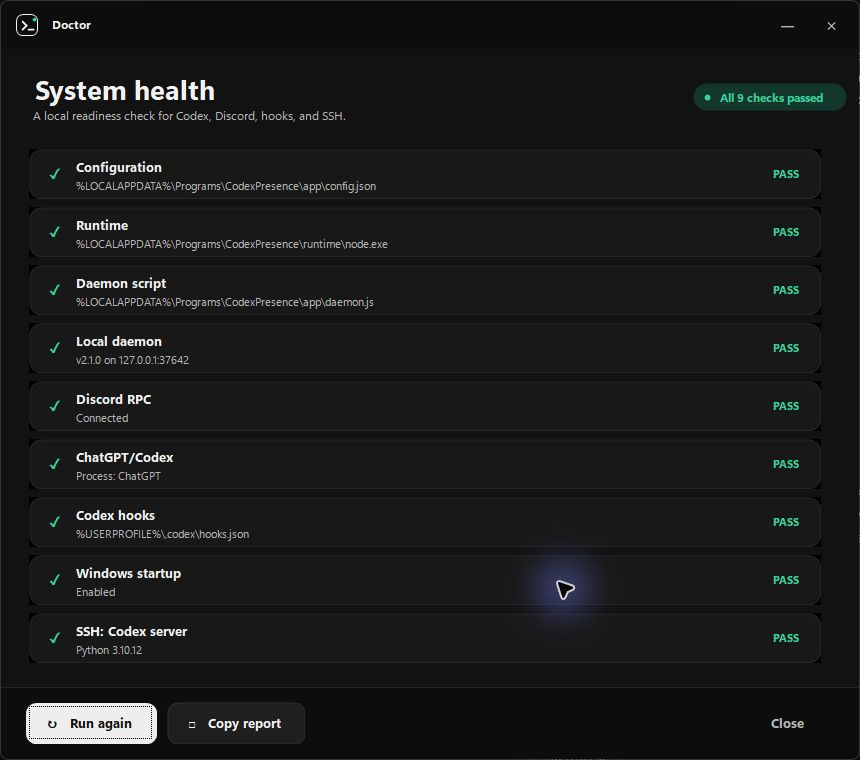
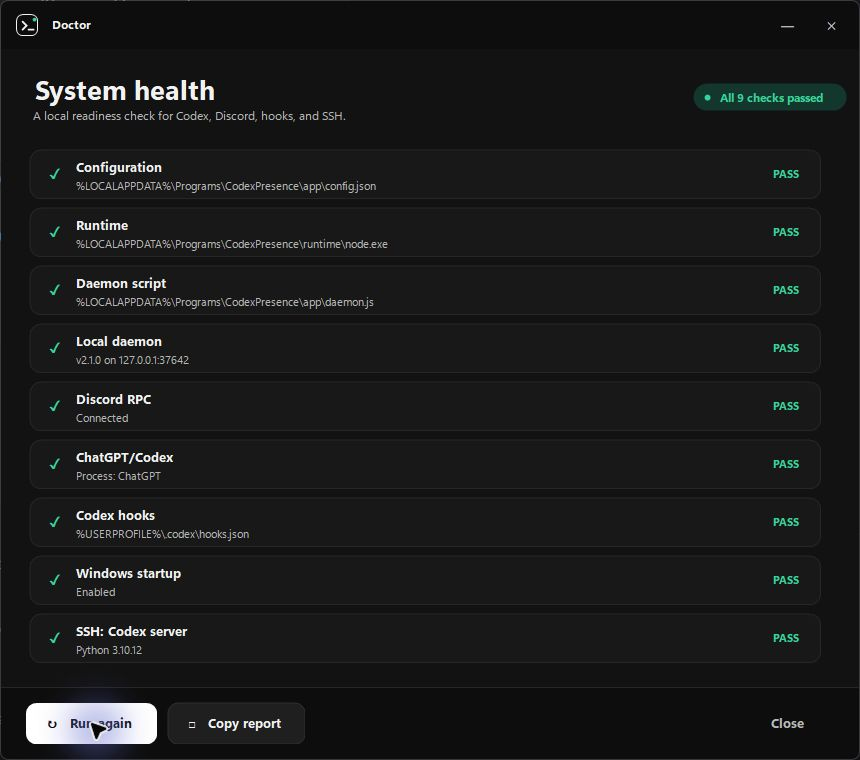
Fix rounded panels and select lifecycle

diff --git a/tray/DashboardForm.cs b/tray/DashboardForm.cs
@@ -3,9 +3,9 @@ namespace CodexPresence;
 public sealed class DashboardForm : ModernForm
 {
     private readonly StatusPill connection = new() { Text = "Connecting" };
-    private readonly Label project = Visuals.Label("Waiting for Codex", 21, false, FontStyle.Bold);
+    private readonly Label project = Visuals.Label("Waiting for Codex", 19, false, FontStyle.Bold);
     private readonly Label file = Visuals.Label("No activity yet", 10, true);
-    private readonly Label elapsed = Visuals.Label("00:00:00", 11, false, FontStyle.Bold);
+    private readonly Label elapsed = Visuals.Label("00:00:00", 10, false, FontStyle.Bold);
     private readonly Label source = Visuals.Label("Local", 9, false, FontStyle.Bold);
     private readonly Label workspace = Visuals.Label("Desktop", 9, false, FontStyle.Bold);
     private readonly ModernButton pause = Visuals.Button("Pause", ButtonKind.Primary, "Ⅱ");
@@ -14,52 +14,70 @@ public sealed class DashboardForm : ModernForm
     public event EventHandler? SettingsRequested;
     public event EventHandler? DiagnosticsRequested;
 
-    public DashboardForm() : base("Codex Presence", new Size(620, 456))
+    public DashboardForm() : base("Codex Presence", new Size(620, 420))
     {
-        MaximumSize = new Size(620, 456);
+        MaximumSize = new Size(620, 420);
 
-        var heading = Visuals.Label("Presence", 18, false, FontStyle.Bold);
-        heading.Location = new Point(28, 23);
-        var subtitle = Visuals.Label("Your current Codex workspace on Discord", 9, true);
-        subtitle.Location = new Point(29, 53);
-        connection.Location = new Point(448, 28);
+        var heading = Visuals.Label("Presence", 17, false, FontStyle.Bold);
+        heading.Location = new Point(28, 21);
+        var subtitle = Visuals.Label("Current Codex activity shared with Discord", 9, true);
+        subtitle.Location = new Point(29, 49);
+        connection.Location = new Point(448, 24);
 
         var activity = new RoundedPanel
         {
-            Location = new Point(28, 88),
-            Size = new Size(562, 166),
-            Radius = 16,
+            Location = new Point(28, 78),
+            Size = new Size(562, 214),
+            Radius = 14,
             BackColor = Visuals.Surface,
+            BorderColor = Visuals.Border,
         };
-        var eyebrow = Visuals.Eyebrow("Current activity");
+
+        var eyebrow = Visuals.Eyebrow("Now editing");
         eyebrow.Location = new Point(20, 18);
-        project.Location = new Point(18, 44);
-        project.MaximumSize = new Size(515, 34);
-        file.Location = new Point(20, 82);
-        file.MaximumSize = new Size(515, 38);
-        var divider = new Panel { Location = new Point(20, 118), Size = new Size(522, 1), BackColor = Visuals.BorderSoft };
-        var clockIcon = Visuals.Label("◷", 11, true);
-        clockIcon.Location = new Point(20, 132);
-        elapsed.Location = new Point(44, 132);
-        activity.Controls.AddRange([eyebrow, project, file, divider, clockIcon, elapsed]);
+        project.Location = new Point(19, 45);
+        project.MaximumSize = new Size(515, 32);
+        file.Location = new Point(20, 79);
+        file.MaximumSize = new Size(515, 34);
 
-        var sourceCard = MetricCard("Signal", source, "Selected task");
-        sourceCard.Location = new Point(28, 270);
-        var workspaceCard = MetricCard("Workspace", workspace, "Local or SSH");
-        workspaceCard.Location = new Point(310, 270);
+        var divider = new Panel { Location = new Point(20, 119), Size = new Size(522, 1), BackColor = Visuals.BorderSoft };
+        var signalCaption = Visuals.Eyebrow("Signal"); signalCaption.Location = new Point(20, 139);
+        source.Location = new Point(20, 163);
+        var workspaceCaption = Visuals.Eyebrow("Workspace"); workspaceCaption.Location = new Point(196, 139);
+        workspace.Location = new Point(196, 163);
+        var timeCaption = Visuals.Eyebrow("Codex session"); timeCaption.Location = new Point(392, 139);
+        elapsed.Location = new Point(392, 162);
 
-        pause.SetBounds(28, 358, 164, 44);
+        activity.Controls.AddRange([
+            eyebrow, project, file, divider,
+            signalCaption, source, workspaceCaption, workspace, timeCaption, elapsed,
+        ]);
+
+        var footer = new Panel
+        {
+            Dock = DockStyle.Bottom,
+            Height = 76,
+            BackColor = Visuals.Canvas,
+        };
+        footer.Paint += (_, e) =>
+        {
+            using var pen = new Pen(Visuals.BorderSoft);
+            e.Graphics.DrawLine(pen, 0, 0, footer.Width, 0);
+        };
+
+        pause.SetBounds(28, 17, 164, 42);
         pause.Click += (_, _) => PauseRequested?.Invoke(this, EventArgs.Empty);
         var settings = Visuals.Button("Settings", ButtonKind.Secondary, "⚙");
-        settings.SetBounds(204, 358, 154, 44);
+        settings.SetBounds(204, 17, 148, 42);
         settings.Click += (_, _) => SettingsRequested?.Invoke(this, EventArgs.Empty);
-        var doctor = Visuals.Button("Doctor", ButtonKind.Ghost, "＋");
-        doctor.SetBounds(370, 358, 132, 44);
+        var doctor = Visuals.Button("Doctor", ButtonKind.Ghost, "+");
+        doctor.SetBounds(362, 17, 124, 42);
         doctor.Click += (_, _) => DiagnosticsRequested?.Invoke(this, EventArgs.Empty);
-        var version = Visuals.Label("v2.1.0", 8, true);
-        version.Location = new Point(542, 374);
+        var version = Visuals.Label("2.1.0", 8, true);
+        version.Location = new Point(548, 31);
+        footer.Controls.AddRange([pause, settings, doctor, version]);
 
-        ContentHost.Controls.AddRange([heading, subtitle, connection, activity, sourceCard, workspaceCard, pause, settings, doctor, version]);
+        ContentHost.Controls.AddRange([heading, subtitle, connection, activity, footer]);
         FormClosing += (_, eventArgs) =>
         {
             if (eventArgs.CloseReason != CloseReason.UserClosing) return;
@@ -98,16 +116,6 @@ public sealed class DashboardForm : ModernForm
         pause.IconGlyph = health.PresenceEnabled ? "Ⅱ" : "▶";
         pause.Enabled = true;
         pause.Invalidate();
-    }
-
-    private static RoundedPanel MetricCard(string caption, Label value, string hint)
-    {
-        var panel = new RoundedPanel { Size = new Size(280, 70), Radius = 12, BackColor = Visuals.Surface };
-        var heading = Visuals.Eyebrow(caption); heading.Location = new Point(15, 12);
-        value.Location = new Point(15, 34);
-        var helper = Visuals.Label(hint, 8, true); helper.Location = new Point(154, 36);
-        panel.Controls.AddRange([heading, value, helper]);
-        return panel;
     }
 
     private static string FriendlySource(string? value) => value switch

diff --git a/tray/Components.cs b/tray/Components.cs
@@ -50,7 +50,8 @@ public sealed class ModernButton : Button
         var text = string.IsNullOrWhiteSpace(IconGlyph) ? Text : $"{IconGlyph}   {Text}";
         TextRenderer.DrawText(e.Graphics, text, Font, Rectangle.Round(bounds), foreground,
             TextFormatFlags.HorizontalCenter | TextFormatFlags.VerticalCenter | TextFormatFlags.EndEllipsis);
-        if (Focused) ControlPaint.DrawFocusRectangle(e.Graphics, Rectangle.Inflate(Rectangle.Round(bounds), -4, -4), foreground, background);
+        if (Focused && ShowFocusCues)
+            ControlPaint.DrawFocusRectangle(e.Graphics, Rectangle.Inflate(Rectangle.Round(bounds), -4, -4), foreground, background);
     }
 
     private (Color Background, Color Foreground, Color Border) Colors() => Kind switch
@@ -71,14 +72,29 @@ public class RoundedPanel : Panel
     public RoundedPanel()
     {
         BackColor = Visuals.Surface;
+        Margin = Padding.Empty;
         SetStyle(ControlStyles.AllPaintingInWmPaint | ControlStyles.OptimizedDoubleBuffer | ControlStyles.UserPaint, true);
+    }
+
+    protected override void OnSizeChanged(EventArgs e)
+    {
+        base.OnSizeChanged(e);
+        var previous = Region;
+        if (Width > 0 && Height > 0)
+        {
+            using var path = Visuals.RoundedPath(new RectangleF(0, 0, Width, Height), Radius);
+            Region = new Region(path);
+        }
+        previous?.Dispose();
+        Invalidate();
     }
 
     protected override void OnPaintBackground(PaintEventArgs e)
     {
+        e.Graphics.Clear(Parent?.BackColor ?? Visuals.Background);
         e.Graphics.SmoothingMode = SmoothingMode.AntiAlias;
         using var brush = new SolidBrush(BackColor);
-        e.Graphics.FillRoundedRectangle(brush, new RectangleF(0, 0, Width - 1, Height - 1), Radius);
+        e.Graphics.FillRoundedRectangle(brush, new RectangleF(0, 0, Width, Height), Radius);
     }
 
     protected override void OnPaint(PaintEventArgs e)
@@ -131,6 +147,7 @@ public sealed class ToggleSwitch : Control
 public sealed class ModernSelect : Control
 {
     private readonly List<string> options;
+    private readonly ContextMenuStrip menu;
     private string selected = "";
     private bool hovered;
     public IReadOnlyList<string> Options => options;
@@ -160,22 +177,14 @@ public sealed class ModernSelect : Control
         TabStop = true;
         AccessibleRole = AccessibleRole.ComboBox;
         SetStyle(ControlStyles.AllPaintingInWmPaint | ControlStyles.OptimizedDoubleBuffer | ControlStyles.UserPaint | ControlStyles.Selectable, true);
-    }
 
-    protected override void OnMouseEnter(EventArgs e) { hovered = true; Invalidate(); base.OnMouseEnter(e); }
-    protected override void OnMouseLeave(EventArgs e) { hovered = false; Invalidate(); base.OnMouseLeave(e); }
-    protected override void OnClick(EventArgs e)
-    {
-        base.OnClick(e);
-        var menu = new ContextMenuStrip
+        menu = new ContextMenuStrip
         {
             BackColor = Visuals.SurfaceRaised,
             ForeColor = Visuals.Text,
             Renderer = new ToolStripProfessionalRenderer(new SelectMenuColors()),
             ShowImageMargin = false,
             AutoSize = false,
-            Width = Width,
-            Height = options.Count * 36 + 4,
             Padding = new Padding(2),
         };
         foreach (var option in options)
@@ -183,17 +192,34 @@ public sealed class ModernSelect : Control
             var item = new ToolStripMenuItem(option)
             {
                 AutoSize = false,
-                Width = Width - 4,
                 Height = 36,
                 Font = Visuals.Font(9),
-                Checked = option == selected,
                 CheckOnClick = false,
             };
             item.Click += (_, _) => Text = option;
             menu.Items.Add(item);
         }
-        menu.Closed += (_, _) => menu.Dispose();
+    }
+
+    protected override void OnMouseEnter(EventArgs e) { hovered = true; Invalidate(); base.OnMouseEnter(e); }
+    protected override void OnMouseLeave(EventArgs e) { hovered = false; Invalidate(); base.OnMouseLeave(e); }
+    protected override void OnClick(EventArgs e)
+    {
+        base.OnClick(e);
+        menu.Width = Width;
+        menu.Height = options.Count * 36 + 4;
+        foreach (ToolStripMenuItem item in menu.Items)
+        {
+            item.Width = Width - 4;
+            item.Checked = string.Equals(item.Text, selected, StringComparison.Ordinal);
+        }
         menu.Show(this, new Point(0, Height + 4));
+    }
+
+    protected override void Dispose(bool disposing)
+    {
+        if (disposing) menu.Dispose();
+        base.Dispose(disposing);
     }
 
     protected override void OnKeyDown(KeyEventArgs e)
